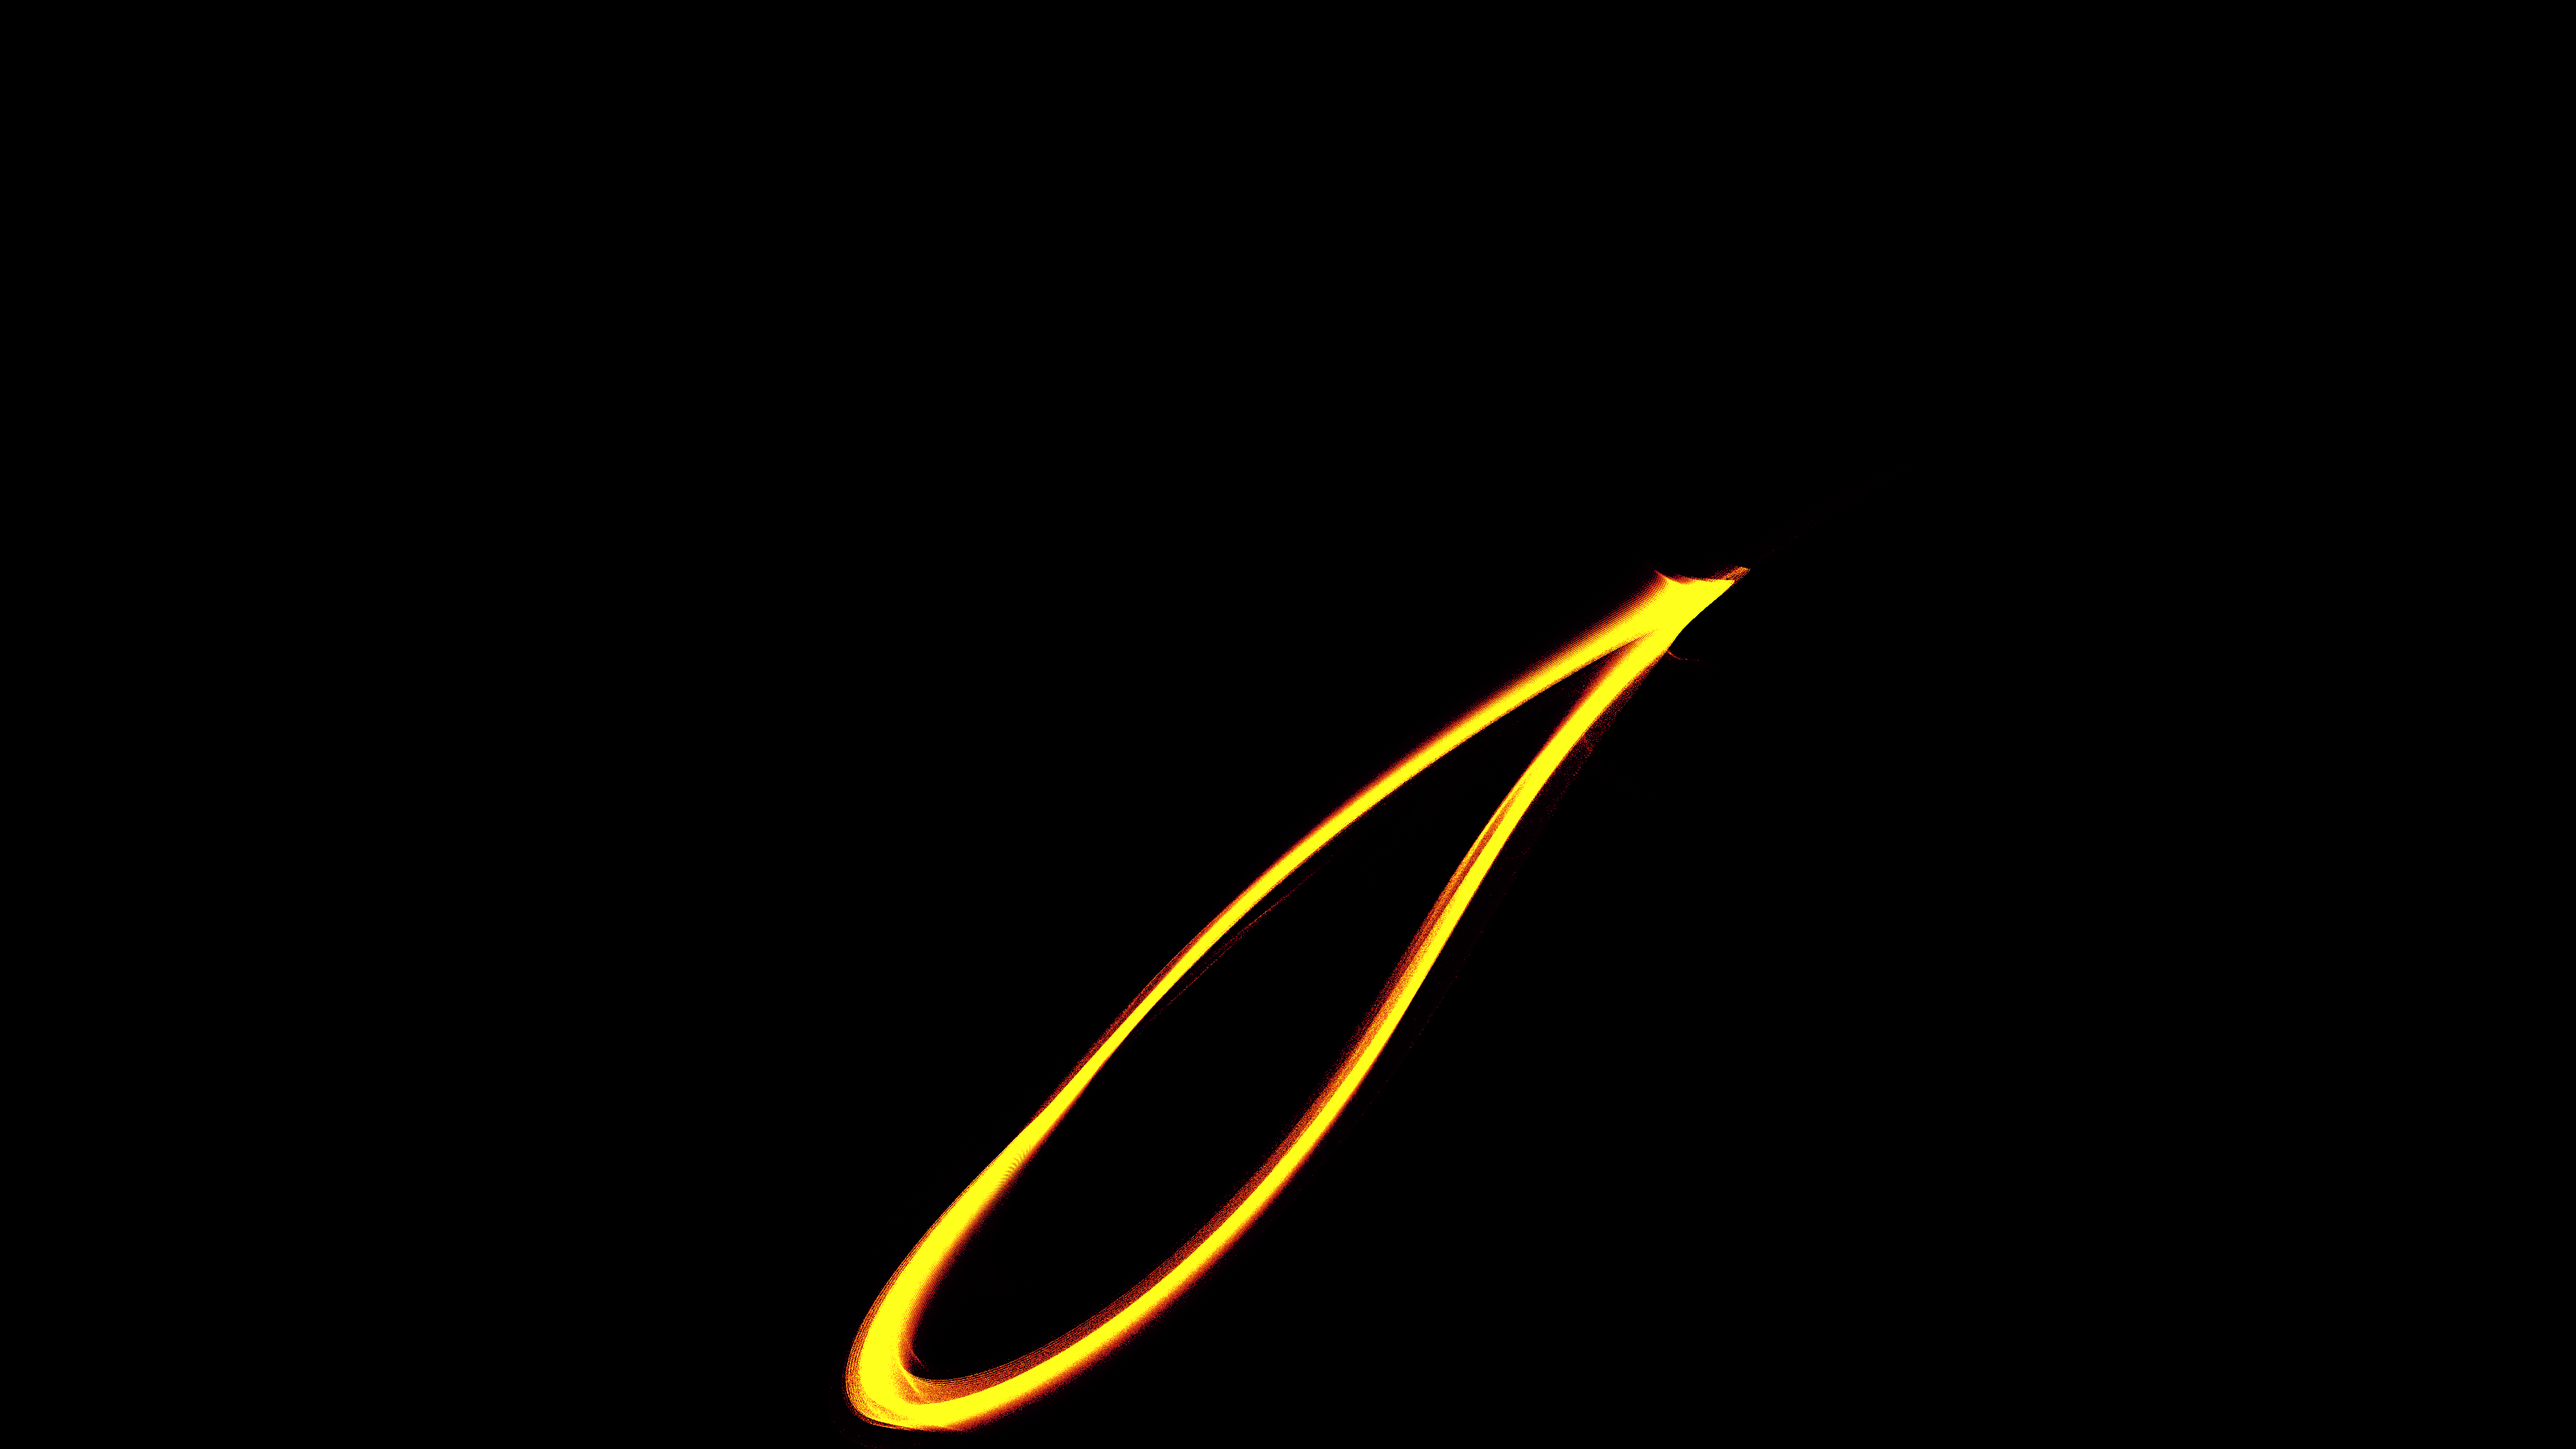
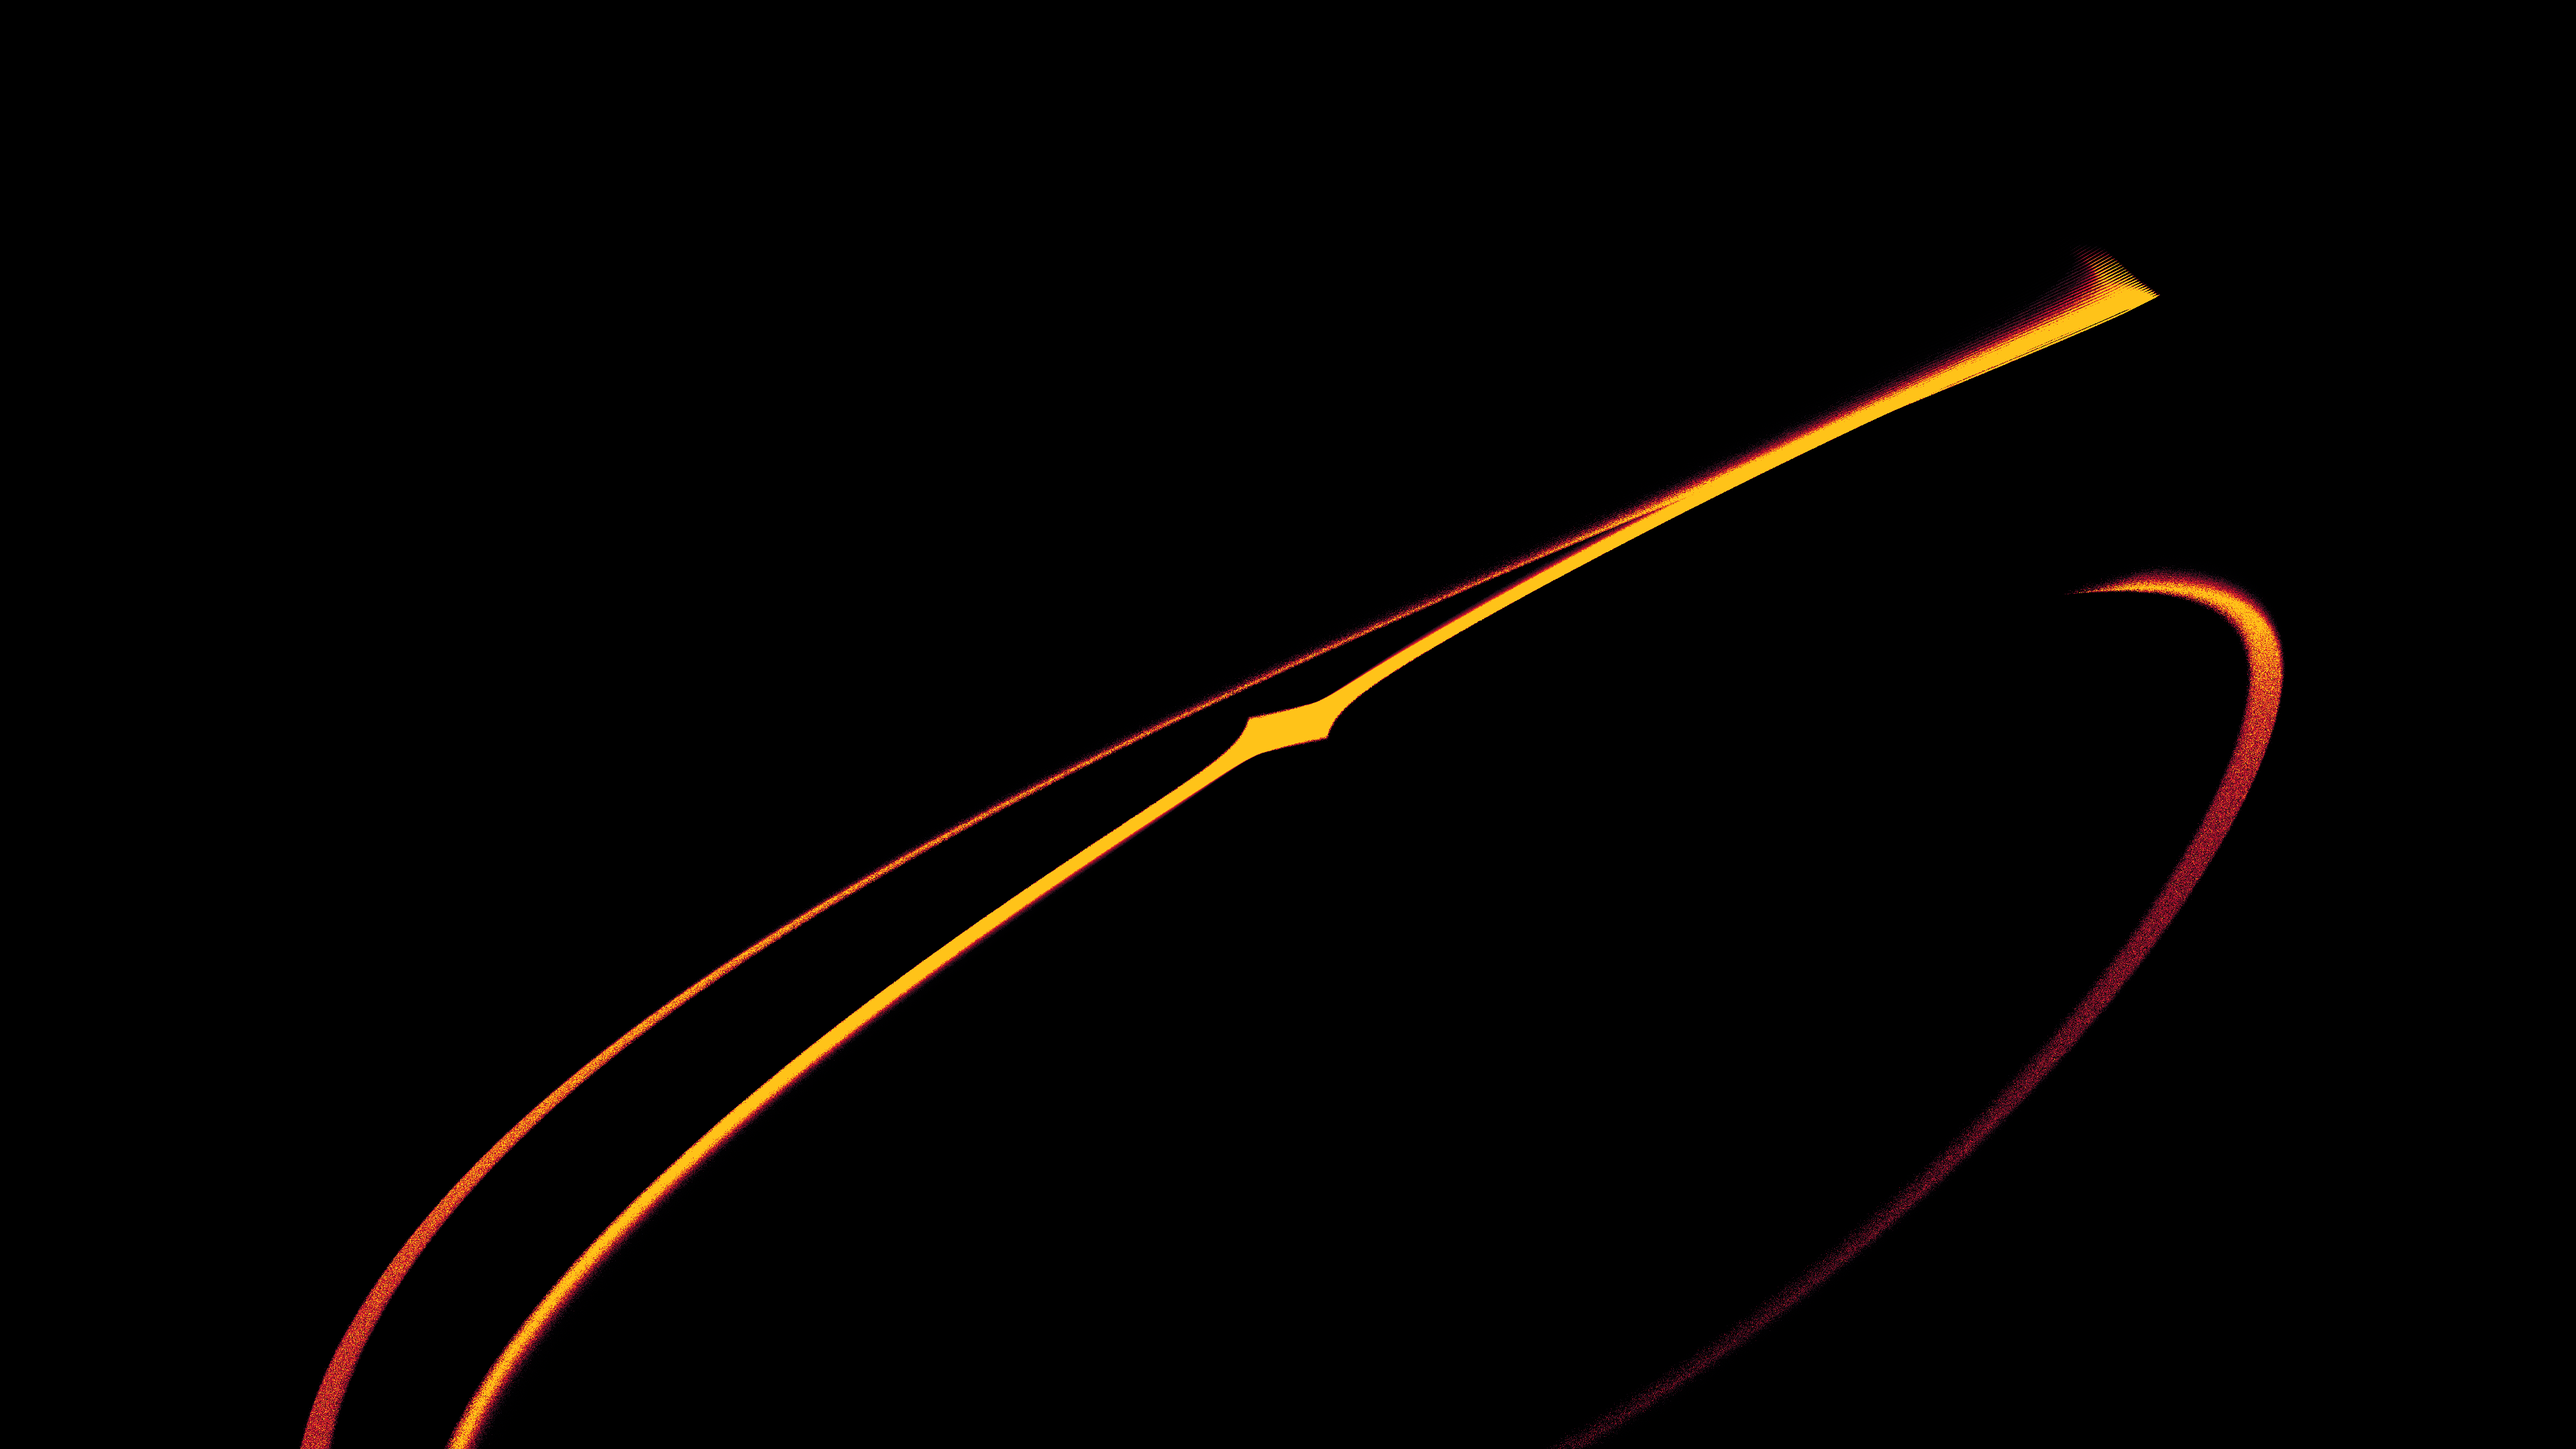
feat: add kinetic_chen_attractor_2d

diff --git a/sketch/kinetic_chen_attractor_2d/main.py b/sketch/kinetic_chen_attractor_2d/main.py
@@ -26,9 +26,9 @@ SIZE = OUTPUT_SIZE
 # Simulation state
 N = 1000000
 # Initial points spread around the origin
-x = np.random.uniform(-10, 10, N).astype(np.float32)
-y = np.random.uniform(-10, 10, N).astype(np.float32)
-z = np.random.uniform(0, 30, N).astype(np.float32)
+x = np.random.uniform(-1, 1, N).astype(np.float32)
+y = np.random.uniform(-1, 1, N).astype(np.float32)
+z = np.random.uniform(0, 1, N).astype(np.float32)
 
 density_buffer = np.zeros((SIZE[1], SIZE[0]), dtype=np.float32)
 
@@ -44,10 +44,10 @@ def step_chen(a, b, c, dt=0.005):
     z_new = z + dz * dt
     
     # Keep particles bounded just in case
-    mask = (np.abs(x_new) > 100) | (np.abs(y_new) > 100) | (np.abs(z_new) > 200)
-    x_new[mask] = np.random.uniform(-10, 10, np.sum(mask)).astype(np.float32)
-    y_new[mask] = np.random.uniform(-10, 10, np.sum(mask)).astype(np.float32)
-    z_new[mask] = np.random.uniform(0, 30, np.sum(mask)).astype(np.float32)
+    mask = (np.abs(x_new) > 60) | (np.abs(y_new) > 60) | (np.abs(z_new) > 60) | np.isnan(x_new)
+    x_new[mask] = np.random.uniform(-1, 1, np.sum(mask)).astype(np.float32)
+    y_new[mask] = np.random.uniform(-1, 1, np.sum(mask)).astype(np.float32)
+    z_new[mask] = np.random.uniform(0, 1, np.sum(mask)).astype(np.float32)
     
     x[:] = x_new
     y[:] = y_new
@@ -63,13 +63,13 @@ def draw():
     
     t = py5.frame_count * 2 * np.pi / TOTAL_FRAMES
     
-    # Chen attractor parameters with continuous modulation
+    # Chen parameters with continuous modulation
     a = 35.0
     b = 3.0
     c = 28.0 + 2.0 * np.sin(t)
     
     # Run integration steps
-    for _ in range(3):
+    for _ in range(5):
         step_chen(a, b, c, dt=0.002)
         
     # Rotate 3D attractor gently over time
@@ -87,11 +87,9 @@ def draw():
     z_rot2 = y_rot1 * np.sin(phi) + z_rot1 * np.cos(phi)
     
     # Map to screen
-    # Chen attractor typical size: x,y in [-20, 20], z in [0, 40]
-    z_centered = z_rot2 - 20.0
-    
-    screen_x = (x_rot2 + 25.0) / 50.0 * SIZE[0]
-    screen_y = (y_rot2 + 25.0) / 50.0 * SIZE[1]
+    # Chen typical size: x,y in [-30, 30], z in [0, 50]
+    screen_x = (x_rot2 + 40.0) / 80.0 * SIZE[0]
+    screen_y = (y_rot2 + 40.0) / 80.0 * SIZE[1]
     
     # Fast 2D histogram
     H, _, _ = np.histogram2d(screen_y, screen_x, bins=(SIZE[1], SIZE[0]), range=[[0, SIZE[1]], [0, SIZE[0]]])
@@ -103,25 +101,25 @@ def draw():
     py5.load_np_pixels()
     
     # Map density to colors
-    # Palette: Solar Yellow, Tangerine, and Deep Crimson
-    density_norm = np.clip(density_buffer / 20.0, 0, 1)
+    # Palette: Amber, Crimson, and Obsidian
+    density_norm = np.clip(density_buffer / 12.0, 0, 1)
     
-    # Deep Crimson base
-    r_col = 150 * (density_norm ** 1.5)
-    g_col = 0 * (density_norm ** 1.2)
-    b_col = 30 * (density_norm ** 1.0)
+    # Obsidian base
+    r_col = 20 * (density_norm ** 1.5)
+    g_col = 15 * (density_norm ** 1.5)
+    b_col = 25 * (density_norm ** 1.5)
     
-    # Tangerine midtones
-    tang_mask = (density_norm > 0.3) & (density_norm < 0.7)
-    r_col[tang_mask] = np.maximum(r_col[tang_mask], 150 + 105 * ((density_norm[tang_mask] - 0.3) / 0.4))
-    g_col[tang_mask] = np.maximum(g_col[tang_mask], 0 + 130 * ((density_norm[tang_mask] - 0.3) / 0.4))
-    b_col[tang_mask] = np.maximum(b_col[tang_mask], 30 - 30 * ((density_norm[tang_mask] - 0.3) / 0.4))
+    # Crimson midtones
+    crimson_mask = (density_norm > 0.3) & (density_norm < 0.7)
+    r_col[crimson_mask] = np.maximum(r_col[crimson_mask], 20 + 200 * ((density_norm[crimson_mask] - 0.3) / 0.4))
+    g_col[crimson_mask] = np.maximum(g_col[crimson_mask], 15 + 0 * ((density_norm[crimson_mask] - 0.3) / 0.4))
+    b_col[crimson_mask] = np.maximum(b_col[crimson_mask], 25 + 25 * ((density_norm[crimson_mask] - 0.3) / 0.4))
     
-    # Solar Yellow highlights
-    yell_mask = density_norm > 0.7
-    r_col[yell_mask] = np.maximum(r_col[yell_mask], 255)
-    g_col[yell_mask] = np.maximum(g_col[yell_mask], 130 + 125 * ((density_norm[yell_mask] - 0.7) / 0.3))
-    b_col[yell_mask] = np.maximum(b_col[yell_mask], 0)
+    # Amber highlights
+    amber_mask = density_norm > 0.7
+    r_col[amber_mask] = np.maximum(r_col[amber_mask], 220 + 35 * ((density_norm[amber_mask] - 0.7) / 0.3))
+    g_col[amber_mask] = np.maximum(g_col[amber_mask], 15 + 180 * ((density_norm[amber_mask] - 0.7) / 0.3))
+    b_col[amber_mask] = np.maximum(b_col[amber_mask], 50 - 50 * ((density_norm[amber_mask] - 0.7) / 0.3))
     
     py5.np_pixels[:, :, 0] = 255
     py5.np_pixels[:, :, 1] = r_col.astype(np.uint8)

diff --git a/sketch/WORKS.md b/sketch/WORKS.md
@@ -1,3 +1,10 @@
+## kinetic_chen_attractor_2d
+- **Date**: 2026-07-25
+- **Type**: Animation (900 frames, 60fps)
+- **Concept**: A continuous 3D chaotic flow with complex bounds.
+- **Techniques**: The Chen Attractor. We numerically integrate the continuous differential equations using the Euler method for 1M particles. The cyclic 3D structure is rotated and orthographically projected onto the 2D plane, gently modulating the parameter `c` over time.
+- **Palette**: Amber, Crimson, and Obsidian.
+
 ## kinetic_halvorsen_attractor_2d
 - **Date**: 2026-07-25
 - **Type**: Animation (900 frames, 60fps)

diff --git a/.agents/FEEDBACK.md b/.agents/FEEDBACK.md
@@ -4,6 +4,12 @@
 Agents MUST NOT write anything in the `Comment` field. When registering a new work, Agents must leave the `Rating` and `Comment` fields empty or with their default labels as placeholders for the user.
 The Artist reads this file before starting a new sketch to understand preferences.
 
+## kinetic_chen_attractor_2d
+
+- **Rating**: 
+- **Comment**: 
+
+
 ## kinetic_halvorsen_attractor_2d
 
 - **Rating**: 
